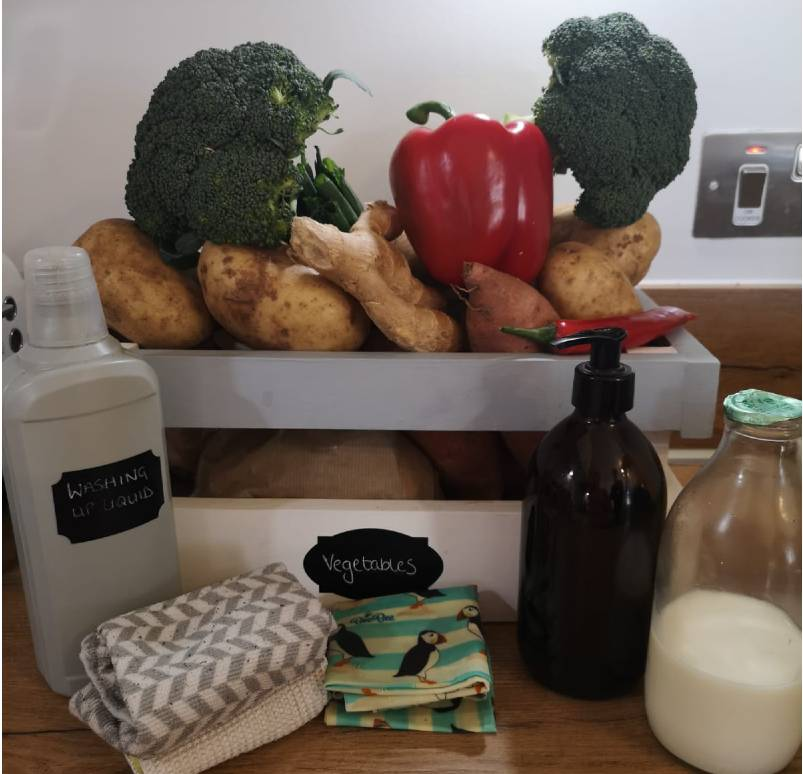
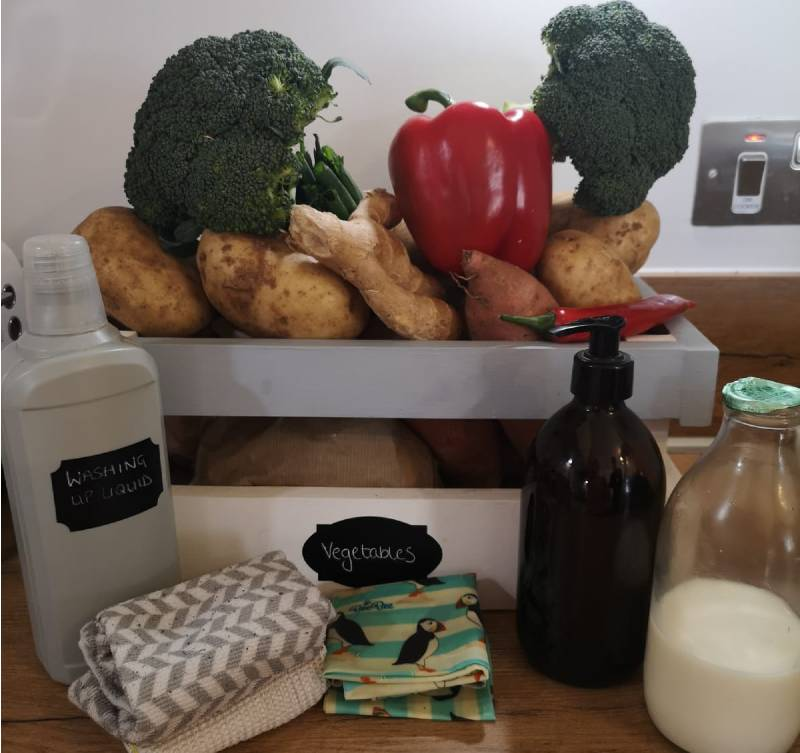
Update Posts “5-simple-changes-we-have-made-to-be-more-environmentally-friendly”

diff --git a/src/posts/5-simple-changes-we-have-made-to-be-more-environmentally-friendly.md b/src/posts/5-simple-changes-we-have-made-to-be-more-environmentally-friendly.md
@@ -4,7 +4,7 @@ title: 5 simple changes we made to be more environmentally friendly
 metaTitle: Five simple changes that will benefit the environment
 metaDesc: By making a few small adjustments to your daily lifestyle you could
   reduce your carbon footprint through very little effort.
-featuredimage: /images/environment-improvements.jpg
+featuredimage: /images/eco.jpg
 date: 2021-03-13T21:48:06.986Z
 tags:
   - sustainability
